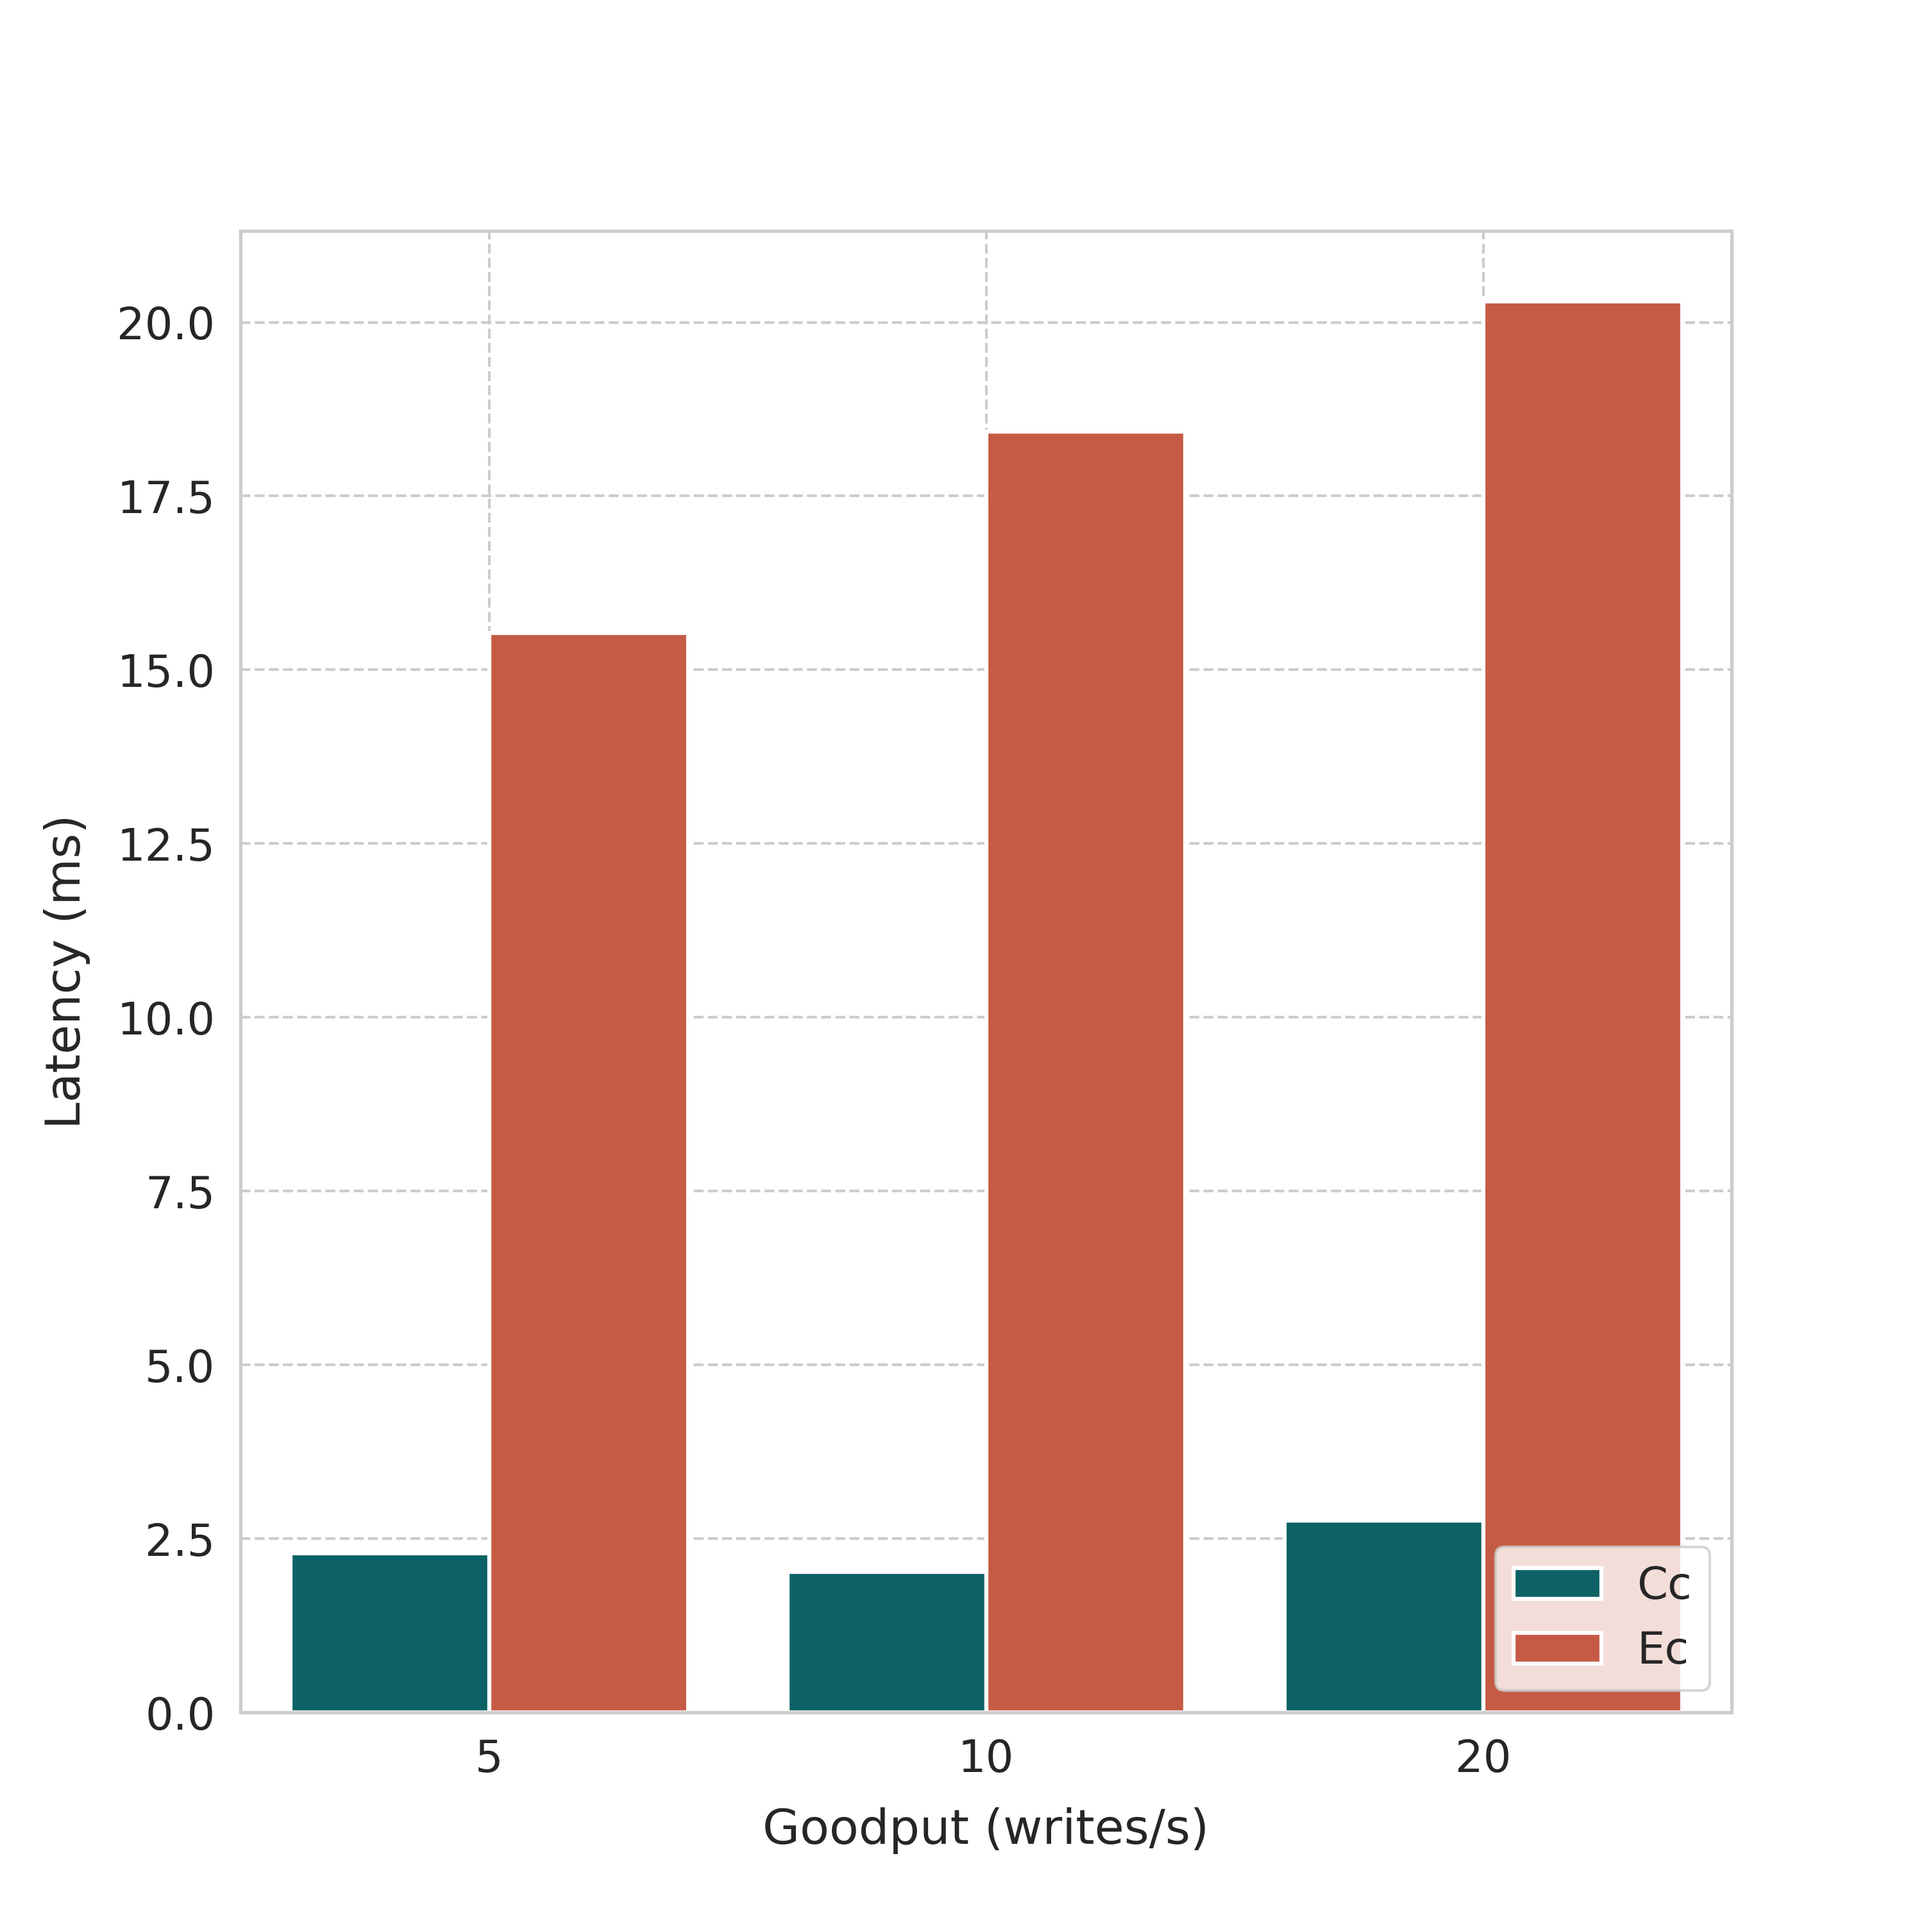
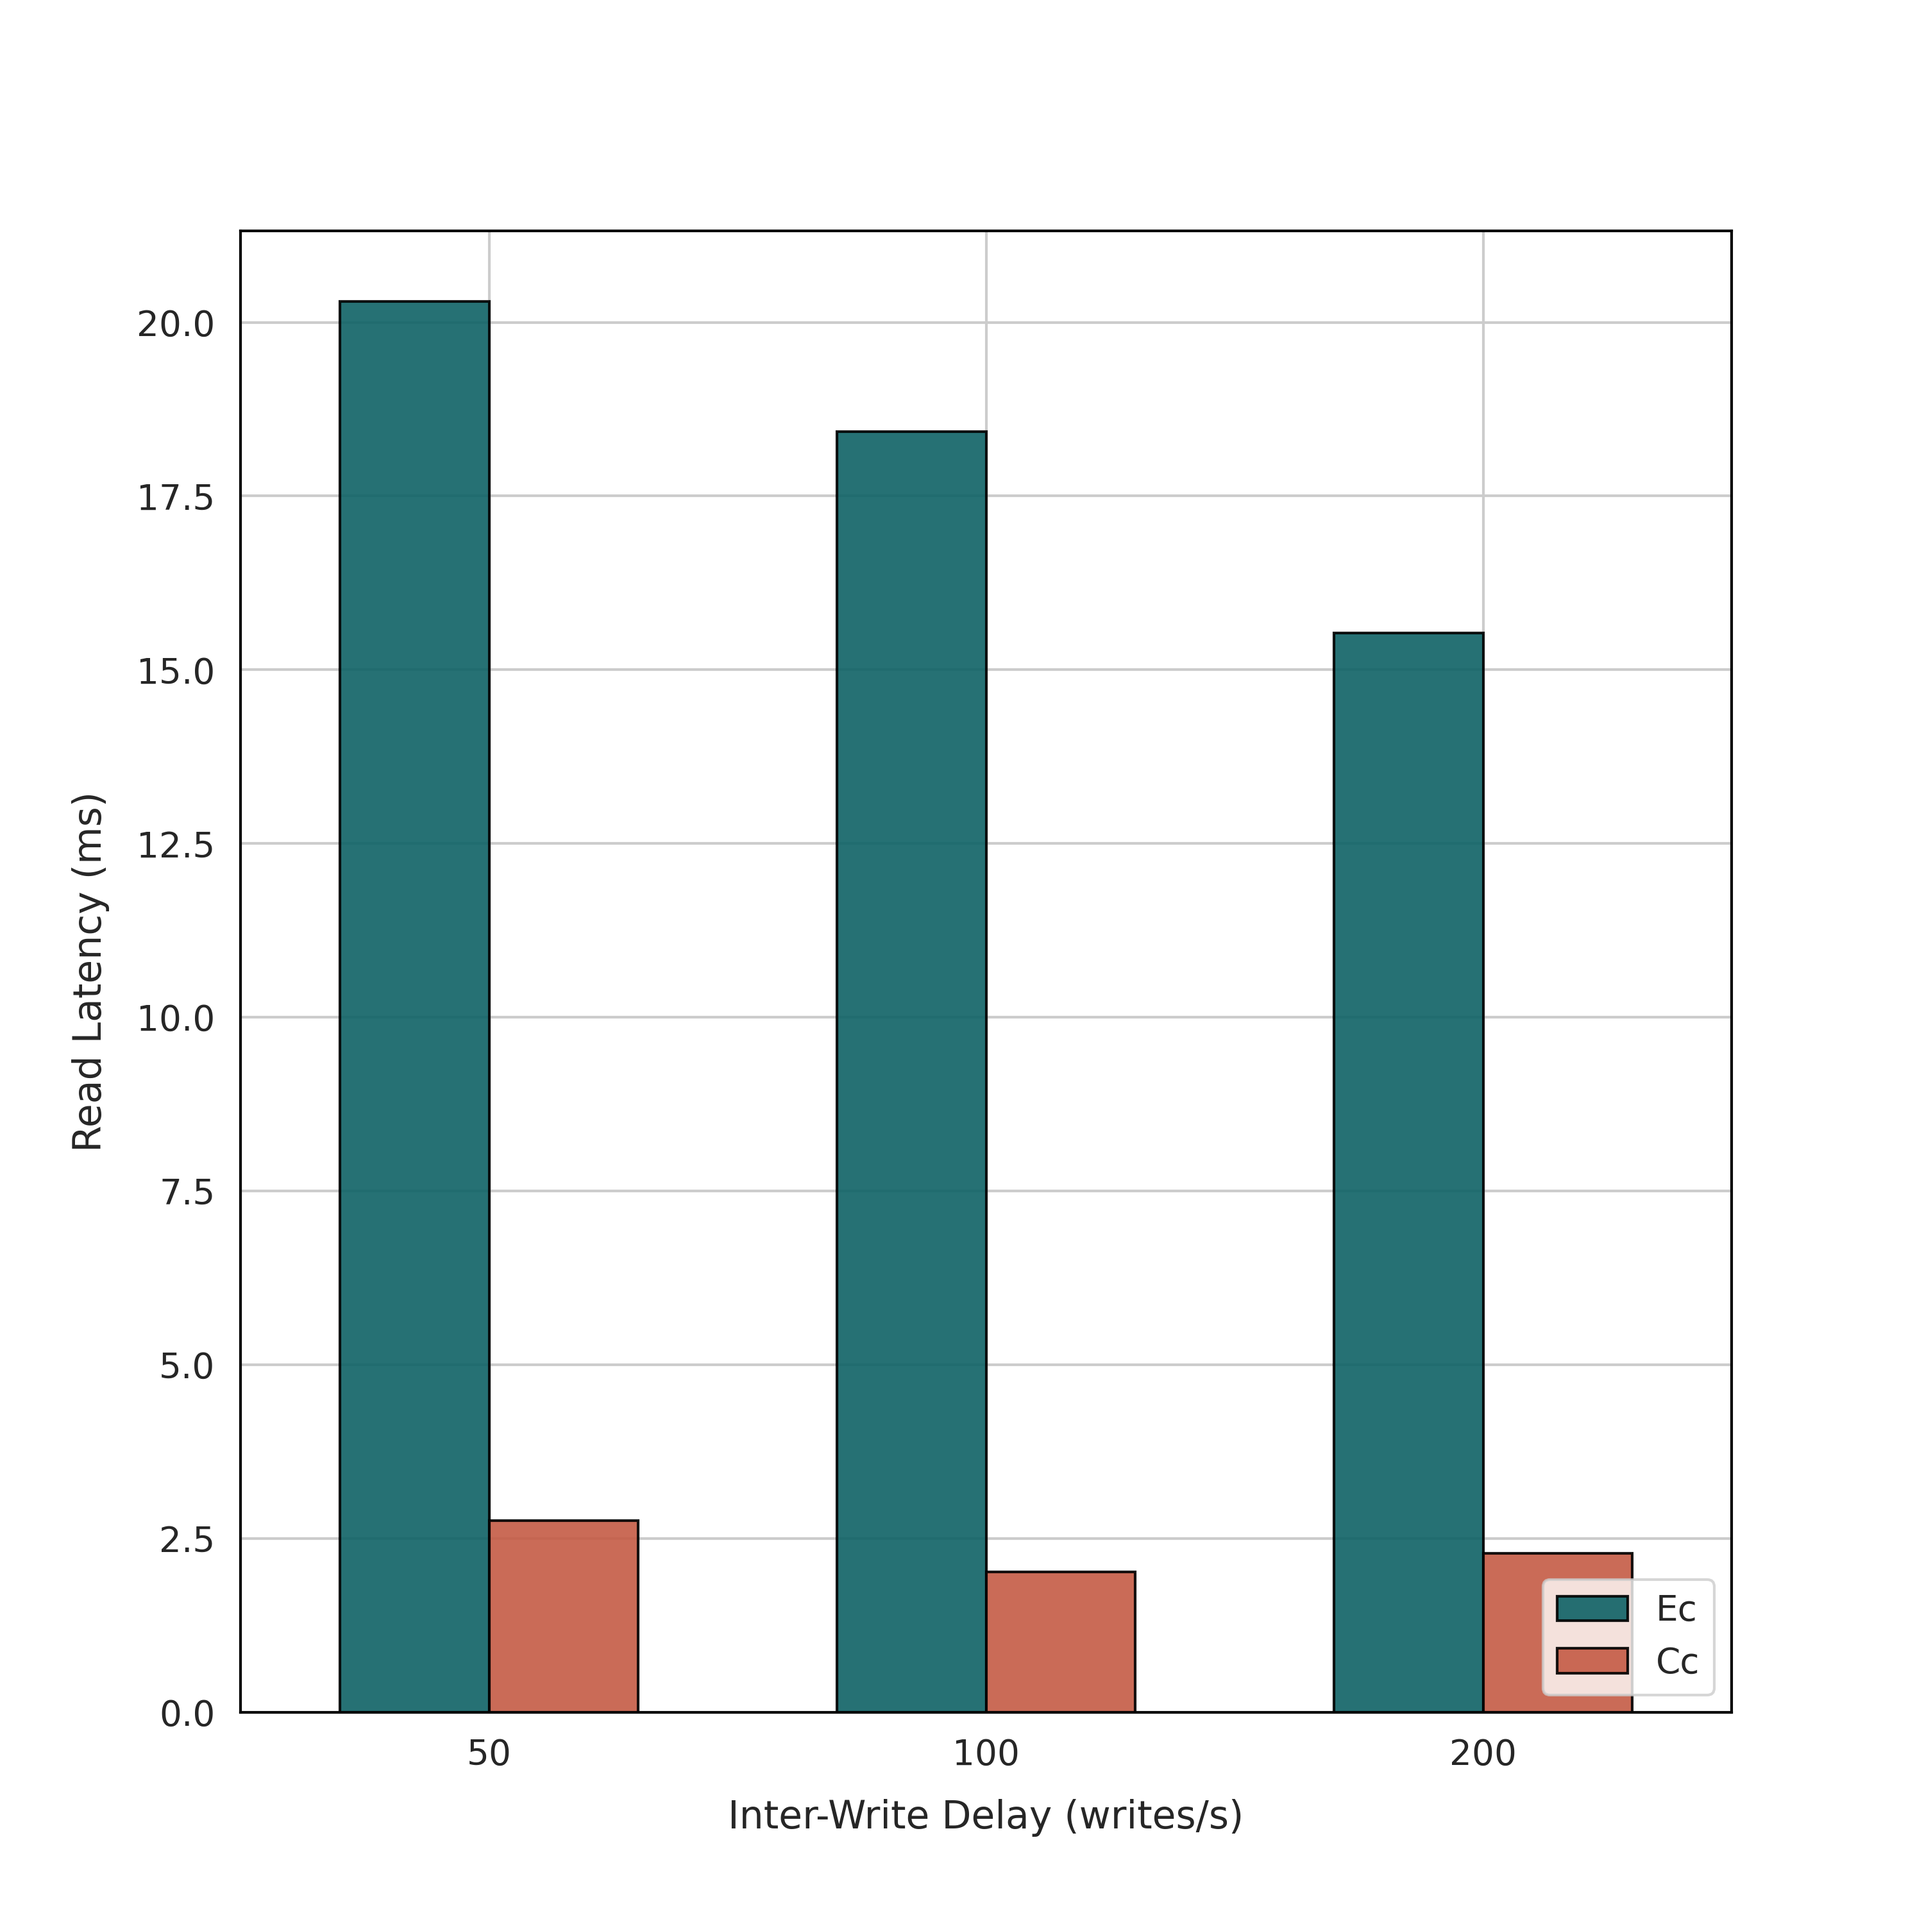
Style latency plots

diff --git a/evaluation/visualization/single_client/latency.py b/evaluation/visualization/single_client/latency.py
@@ -3,7 +3,7 @@ import seaborn as sns
 import numpy as np
 import matplotlib.pyplot as plt
 import matplotlib.ticker as ticker
-from visualization.utils import PATH, CC_DIR, EC_DIR, LOCAL_REGION, DELAYS, GOODPUTS, LINESTYLES, MARKERS
+from visualization.utils import PATH, CC_DIR, EC_DIR, LOCAL_REGION, DELAYS, LINESTYLES, MARKERS
 from visualization.utils import get_data, df_describe
 
 EC_LATENCY_PATH = PATH + '/logs/latency' + EC_DIR + '/d_'
@@ -18,11 +18,11 @@ def latency_evaluation():
     for delay in DELAYS:
         df_ec_latency = get_latency_times(EC_LATENCY_PATH, delay)
         df_ec_latency['consistency'] = 'EC'
-        df_ec_latency['goodput'] = 1000//delay
+        df_ec_latency['delay'] = delay
 
         df_cc_latency = get_latency_times(CC_LATENCY_PATH, delay)
         df_cc_latency['consistency'] = 'CC'
-        df_cc_latency['goodput'] = 1000//delay
+        df_cc_latency['delay'] = delay
 
         dfs.append(df_ec_latency)
         dfs.append(df_cc_latency)
@@ -38,6 +38,7 @@ def latency_evaluation():
     latency_average_barplot(df)
 
     latency_throughput_relation(df)
+    latency_throughput_relation_errorbar(df)
 
 
 # Univariate
@@ -75,22 +76,20 @@ def latency_distribution_table(df_ec_latency, df_cc_latency, delay):
 
 
 def latency_boxplot(df, outliers=False, interval=5, fig_size=(10, 10)):
-    _, ax = plt.subplots(figsize=fig_size)
-    sns.boxplot(data=df, x="goodput", y="latency",
-                hue="consistency", showfliers=outliers, order=GOODPUTS)
-    ax.xaxis.grid(True)
-    ax.yaxis.set_major_locator(ticker.MultipleLocator(base=interval))
-    ax.set_xlabel(ax.get_xlabel().capitalize() + " (writes/s)", labelpad=10)
-    ax.set_ylabel(ax.get_ylabel().capitalize() + " (ms)", labelpad=10)
-    handles, labels = ax.get_legend_handles_labels()
-    ax.legend(handles, [label.capitalize()
-              for label in labels], loc="upper right")
-    plt.savefig(RESULT_PATH + '/latency_boxplot' +
-                ('_outliers' if outliers else '') + '.png', dpi=300)
+    plt.figure(figsize=fig_size)
+    sns.boxplot(data=df, x="delay", y="latency",
+                hue="consistency", hue_order=['EC','CC'], showfliers=outliers, order=DELAYS)
+    plt.gca().xaxis.grid(True)
+    plt.gca().yaxis.set_major_locator(ticker.MultipleLocator(base=interval))
+    plt.xlabel("Inter-Write Delay (writes/s)", labelpad=10)
+    plt.ylabel("Read Latency (ms)", labelpad=10)
+    handles, labels = plt.gca().get_legend_handles_labels()
+    plt.legend(handles, [label.capitalize() for label in labels], loc="upper right")
+    plt.savefig(RESULT_PATH + '/latency_boxplot' + ('_outliers' if outliers else '') + '.png', dpi=300)
     plt.clf()
 
 # def latency_histogram(df):
-#     g = sns.FacetGrid(df, row="goodput", hue="consistency", height=10, aspect=4, margin_titles=True)
+#     g = sns.FacetGrid(df, row="delay", hue="consistency", height=10, aspect=4, margin_titles=True)
 #     g.map(sns.histplot, "latency", kde=True)
 #     g.set(yscale='symlog')
 #     g.add_legend()
@@ -100,14 +99,14 @@ def latency_boxplot(df, outliers=False, interval=5, fig_size=(10, 10)):
 
 def latency_average_barplot(df):
     _, ax = plt.subplots(figsize=(10, 10))
-    grouped_data = df.groupby(["goodput", "consistency"])["latency"]
+    grouped_data = df.groupby(["delay", "consistency"])["latency"]
     average_latency = grouped_data.mean().reset_index()
 
-    sns.barplot(data=average_latency, x="goodput", y="latency",
-                hue="consistency", width=0.8, linewidth=1.5, order=GOODPUTS)
+    sns.barplot(data=average_latency, x="delay", y="latency",
+                hue="consistency", hue_order = ['EC','CC'], width=0.6, linewidth=1, edgecolor='black', order=DELAYS, alpha=0.9)
     ax.xaxis.grid(True)
-    ax.set_xlabel(ax.get_xlabel().capitalize() + " (writes/s)", labelpad=10)
-    ax.set_ylabel(ax.get_ylabel().capitalize() + " (ms)", labelpad=10)
+    ax.set_xlabel("Inter-Write Delay (writes/s)", labelpad=10)
+    ax.set_ylabel("Read Latency (ms)", labelpad=10)
     handles, labels = ax.get_legend_handles_labels()
     ax.legend(handles, [label.capitalize()
               for label in labels], loc="lower right")
@@ -122,19 +121,36 @@ def latency_throughput_relation(df):
     def estimator_99(data): return np.percentile(data, 99)
     def estimator_95(data): return np.percentile(data, 95)
 
-    sns.lineplot(data=df, x="goodput", y="latency", hue="consistency", style="consistency", markers=MARKERS, dashes=[LINESTYLES[0], LINESTYLES[0]],
-                 markersize=6, estimator=estimator_99, errorbar=None, linewidth=2, legend=False, markeredgewidth=1, markeredgecolor='w')
-    sns.lineplot(data=df, x="goodput", y="latency", hue="consistency", style="consistency", markers=MARKERS, dashes=[LINESTYLES[1], LINESTYLES[1]],
-                 markersize=8, estimator=estimator_95, errorbar=None, linewidth=2, legend=False, markeredgewidth=1, markeredgecolor='w')
-    sns.lineplot(data=df, x="goodput", y="latency", hue="consistency", style="consistency", markers=MARKERS, dashes=[LINESTYLES[2], LINESTYLES[2]],
-                 markersize=10, estimator=np.mean, errorbar=None, linewidth=2, legend=False, markeredgewidth=1, markeredgecolor='w')
+    sns.lineplot(data=df, x="delay", y="latency", hue="consistency", style="consistency", markers=MARKERS, dashes=[LINESTYLES[0], LINESTYLES[0]],
+                 markersize=8, estimator=estimator_99, errorbar=None, linewidth=3, markeredgewidth=1,
+                markeredgecolor='w', hue_order=['EC','CC'])
+    sns.lineplot(data=df, x="delay", y="latency", hue="consistency", style="consistency", markers=MARKERS, dashes=[LINESTYLES[1], LINESTYLES[1]],
+                 markersize=9, estimator=estimator_95, errorbar=None, linewidth=3, markeredgewidth=1,
+                markeredgecolor='w', hue_order=['EC','CC'])
+    sns.lineplot(data=df, x="delay", y="latency", hue="consistency", style="consistency", markers=MARKERS, dashes=[LINESTYLES[2], LINESTYLES[2]],
+                 markersize=10, estimator=np.mean, errorbar=None, linewidth=3, markeredgewidth=1, 
+                 markeredgecolor='w', hue_order=['EC','CC'])
 
     ax.xaxis.grid(True)
-    ax.set_xlabel(ax.get_xlabel().capitalize() + " (writes/s)", labelpad=10)
-    ax.set_ylabel(ax.get_ylabel().capitalize() + " (ms)", labelpad=10)
+    ax.set_xlabel("Inter-Write Delay (writes/s)", labelpad=10)
+    ax.set_ylabel("Read Latency (ms)", labelpad=10)
+    ax.xaxis.set_major_formatter(plt.FormatStrFormatter('%.0f'))
+    ax.legend(loc="upper right", labels=['EC P99', 'CC P99', 'EC P95', 'CC P95', 'EC Avg', 'CC Avg'])
+    plt.savefig(RESULT_PATH + '/latency_with_throughput.png', dpi=300)
+    plt.clf()
+
+def latency_throughput_relation_errorbar(df):
+    _, ax = plt.subplots(figsize=(8, 8))
+
+    sns.lineplot(data=df, x="delay", y="latency", hue="consistency", style="consistency", markers=MARKERS,
+                 markersize=10, linewidth=2, markeredgewidth=1, markeredgecolor='w', hue_order=['EC','CC'])
+
+    ax.xaxis.grid(True)
+    ax.set_xlabel("Inter-Write Delay (writes/s)", labelpad=10)
+    ax.set_ylabel("Average Read Latency (ms)", labelpad=10)
     ax.xaxis.set_major_formatter(plt.FormatStrFormatter('%.0f'))
     handles, labels = ax.get_legend_handles_labels()
     ax.legend(handles, [label.capitalize()
               for label in labels], loc="lower right")
-    plt.savefig(RESULT_PATH + '/latency_with_throughput.png', dpi=300)
+    plt.savefig(RESULT_PATH + '/latency_with_throughput_errorbar.png', dpi=300)
     plt.clf()

diff --git a/evaluation/__main__.py b/evaluation/__main__.py
@@ -1,14 +1,13 @@
 import seaborn as sns
-import matplotlib as mpl
+import matplotlib as plt
 import visualization
 
-mpl.rcParams['font.family'] = 'Verdana'
-sns.set(font_scale=1.5)
-sns.set_style("whitegrid", {'grid.linestyle': '--'})
+sns.set(style="whitegrid", font_scale=1.2, rc={"axes.edgecolor": "black", "axes.linewidth": 1})
 sns.set_palette(visualization.COLORS)
 
 visualization.single_client.latency_evaluation()
-visualization.single_client.goodput_evaluation()
-visualization.single_client.visibility_evaluation()
+# visualization.single_client.goodput_evaluation()
+# visualization.single_client.visibility_evaluation()
 
-visualization.multi_client.latency_evaluation()
+# visualization.multi_client.latency_evaluation()
+    
